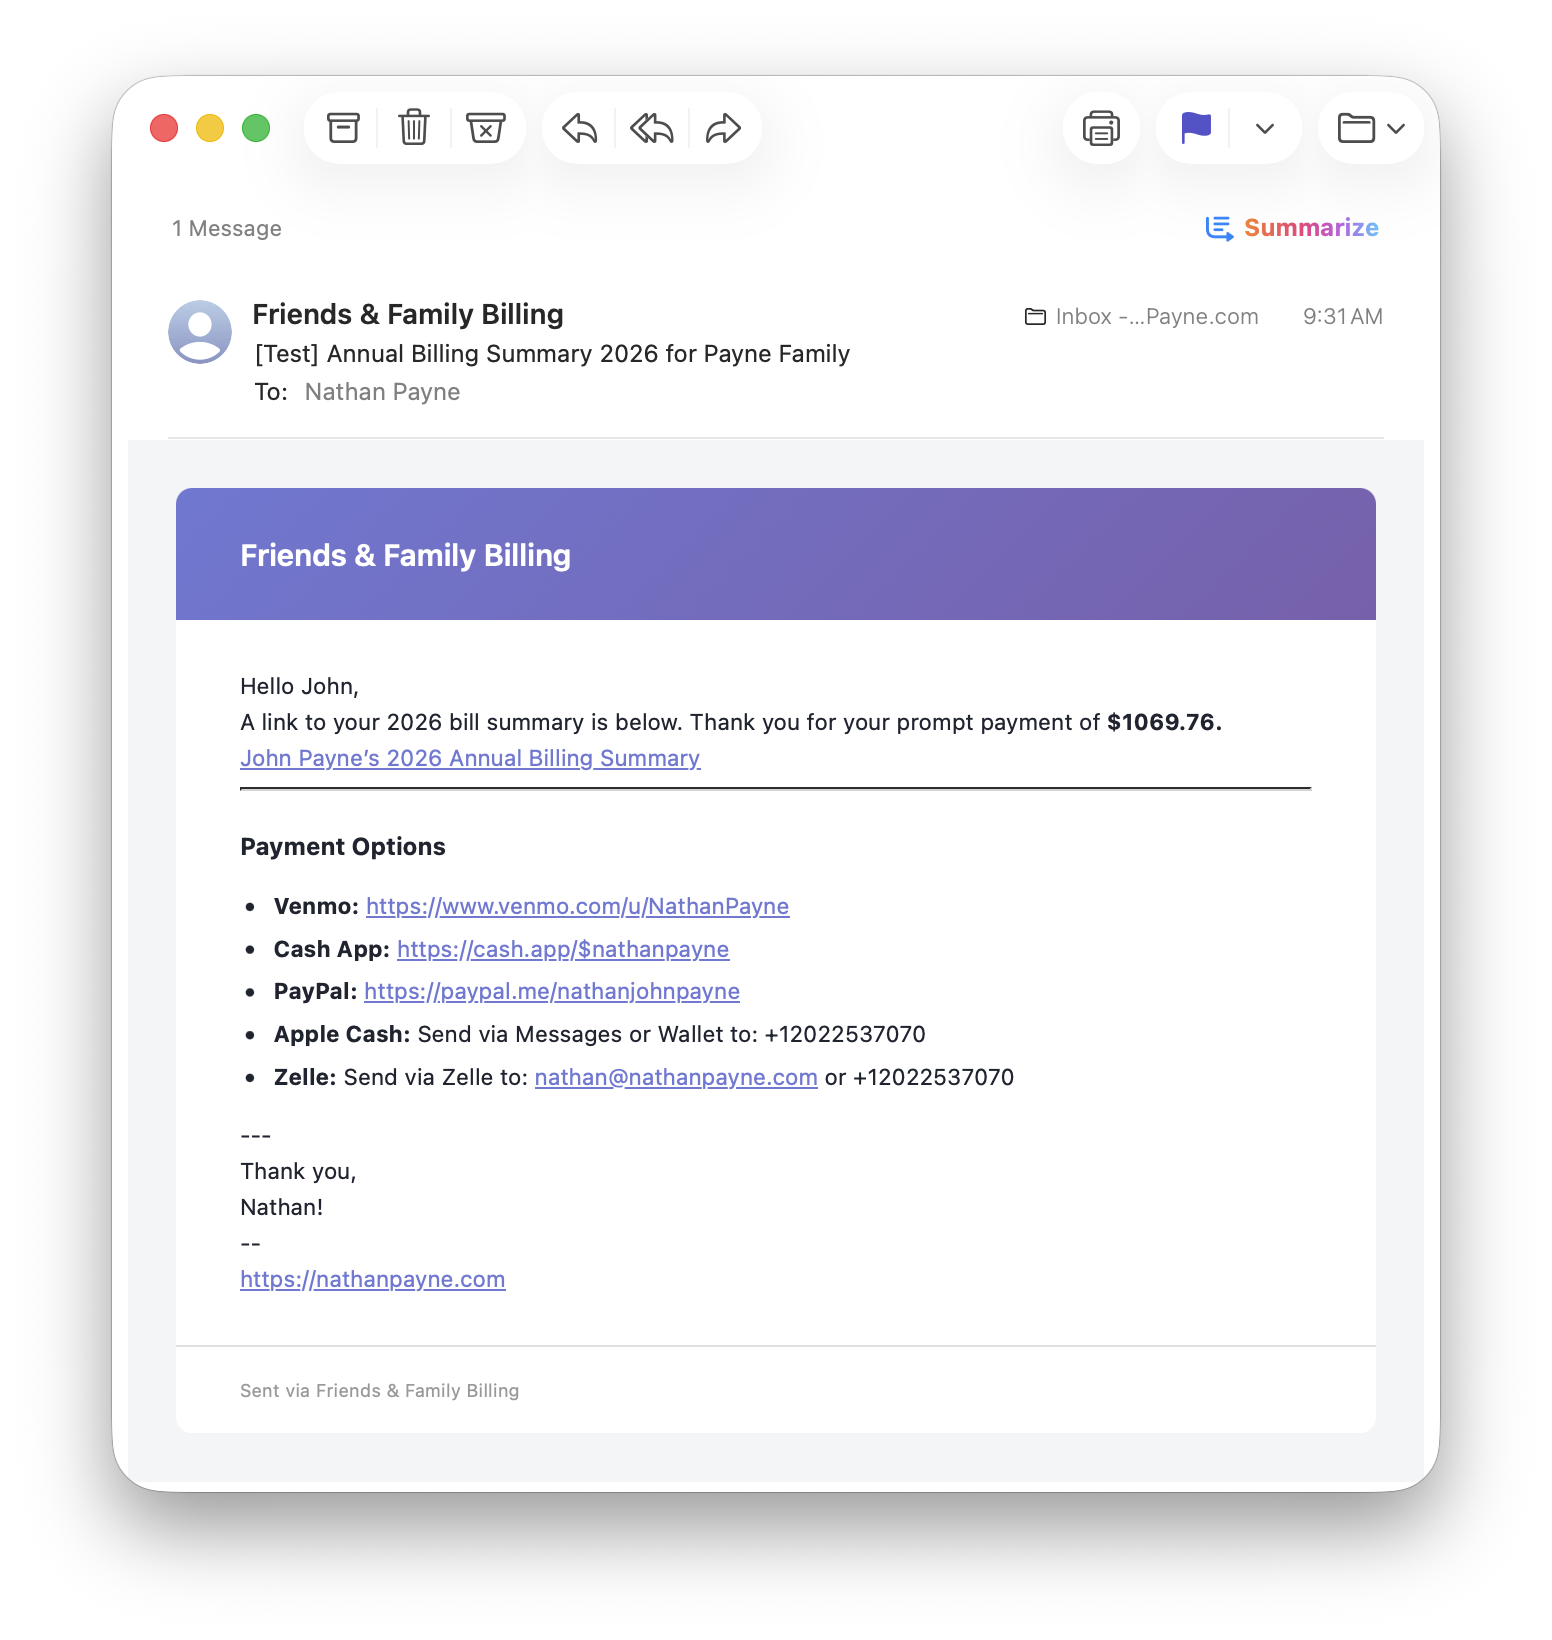
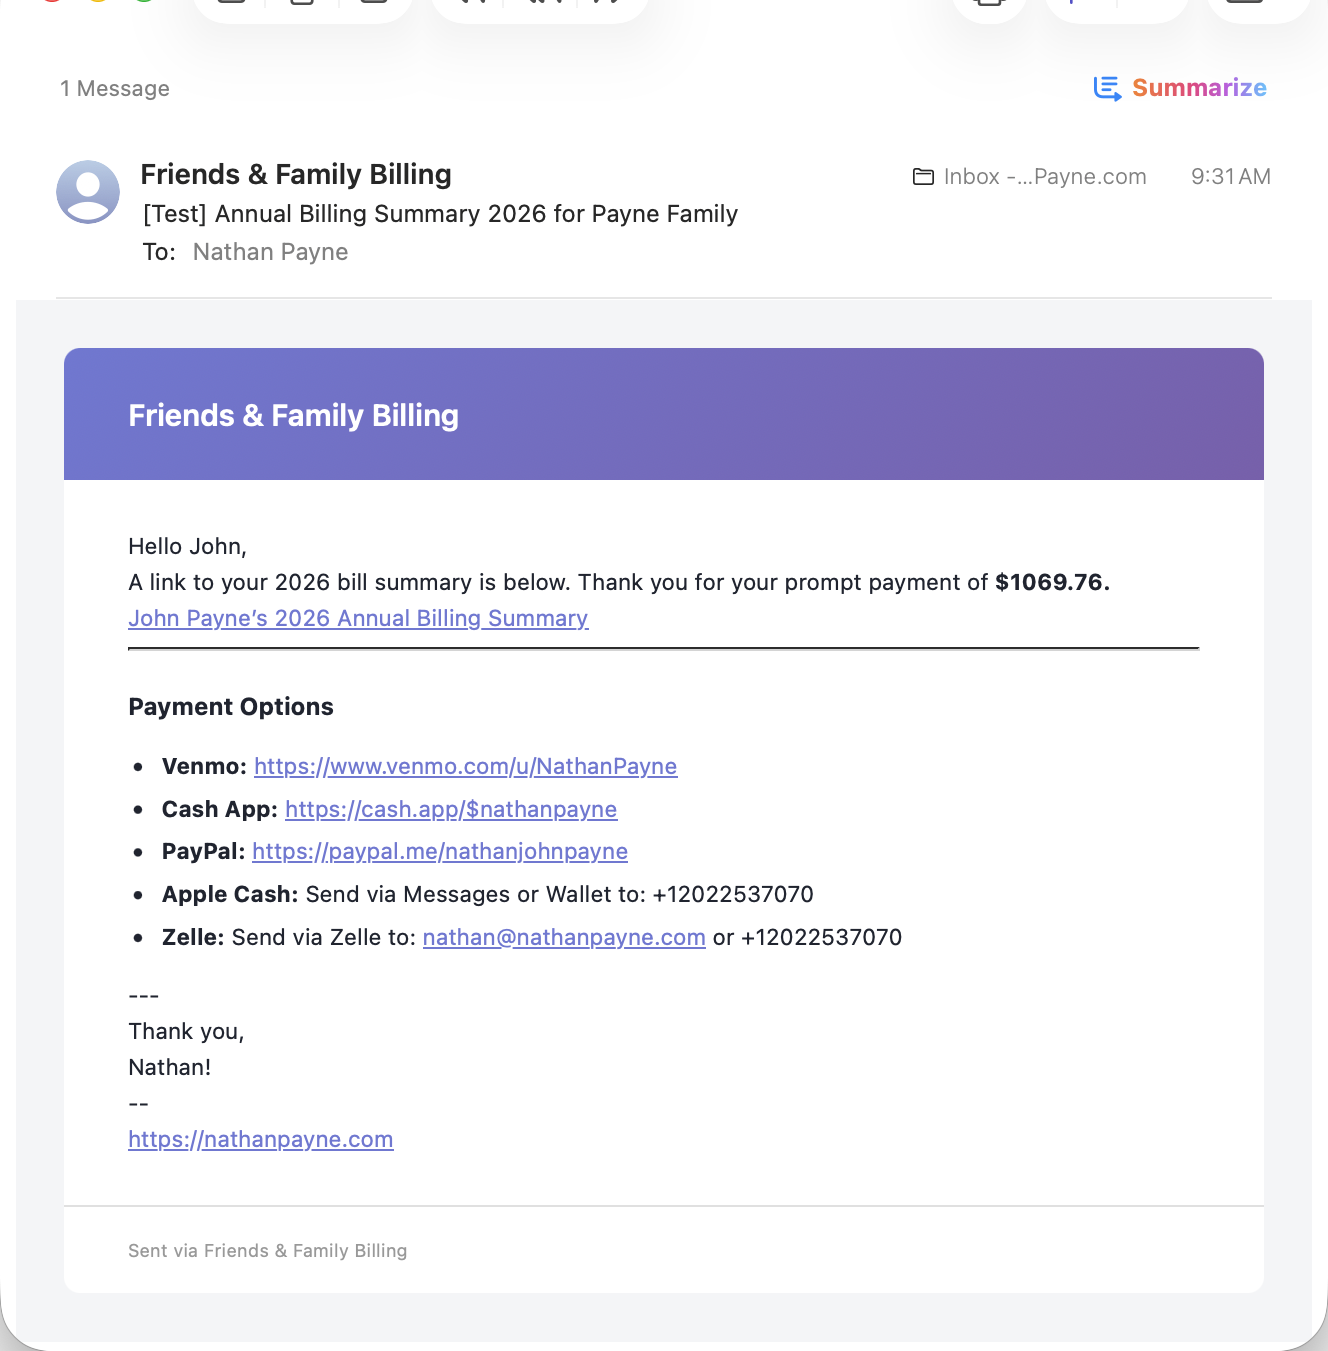
Replace all blog post screenshots with cropped local images
Crop window chrome (title bars, toolbars, shadows) from all four
figures. Add new editor and preview screenshots from the app. All
images now hosted locally under the blog post's img/ directory.

Authoring-Agent: claude

diff --git a/blog/six-prs-one-bug-agent-failure-modes/index.html b/blog/six-prs-one-bug-agent-failure-modes/index.html
@@ -110,10 +110,10 @@ Email:   TipTap / ProseMirror document -&gt; docToPlainTextWithTokens() -&gt; Re
 <h2>What the screenshots were actually saying</h2>
 <p>The screenshots in <a href="https://github.com/nathanjohnpayne/friends-and-family-billing/issues/159">issue #159</a> are not just visual proof that something looked off. They are evidence that different layers of the system were interpreting the same content differently.</p>
 <h3>1. Editor: the structured document still looked sane</h3>
-<figure class="blog-figure"><img src="https://raw.githubusercontent.com/nathanjohnpayne/friends-and-family-billing/issue/invoice-rendering-bug-screenshots/.github/screenshots/invoice-bug-01-editor-view.png" alt="Editor Screenshot" loading="lazy" /><figcaption><strong>Figure 1:</strong> Editor Screenshot</figcaption></figure>
+<figure class="blog-figure"><img src="/blog/six-prs-one-bug-agent-failure-modes/img/invoice-bug-01-editor-view.png" alt="Editor Screenshot" loading="lazy" /><figcaption><strong>Figure 1:</strong> Editor Screenshot</figcaption></figure>
 <p>In Edit mode, the intro paragraph is ordinary body text. The billing-summary link, payment options block, divider, and signature are all in the expected order. At this point the content still lives as structured TipTap / ProseMirror JSON, so the system has not yet lost information.</p>
 <h3>2. Preview: semantics changed during the markdown round-trip</h3>
-<figure class="blog-figure"><img src="https://raw.githubusercontent.com/nathanjohnpayne/friends-and-family-billing/issue/invoice-rendering-bug-screenshots/.github/screenshots/invoice-bug-02-preview-view.png" alt="Preview Screenshot" loading="lazy" /><figcaption><strong>Figure 2:</strong> Preview Screenshot</figcaption></figure>
+<figure class="blog-figure"><img src="/blog/six-prs-one-bug-agent-failure-modes/img/invoice-bug-02-preview-view.png" alt="Preview Screenshot" loading="lazy" /><figcaption><strong>Figure 2:</strong> Preview Screenshot</figcaption></figure>
 <p>Preview was not rendering the editor document directly. It serialized the document into markdown-like text and reparsed that text with CommonMark. Separator lines like <code>---</code> were being interpreted differently across surfaces, and list content was picking up paragraph wrappers with default margins. That is why the Preview screenshot looks heavier and more spread out than the editor even though the author never changed the template content.</p>
 <h3>3. Sent email: a second parser created a third version of reality</h3>
 <figure class="blog-figure"><img src="/blog/six-prs-one-bug-agent-failure-modes/img/invoice-bug-03-broken-sent-email.png" alt="Sent Email Screenshot" loading="lazy" /><figcaption><strong>Figure 3:</strong> Sent Email Screenshot</figcaption></figure>
